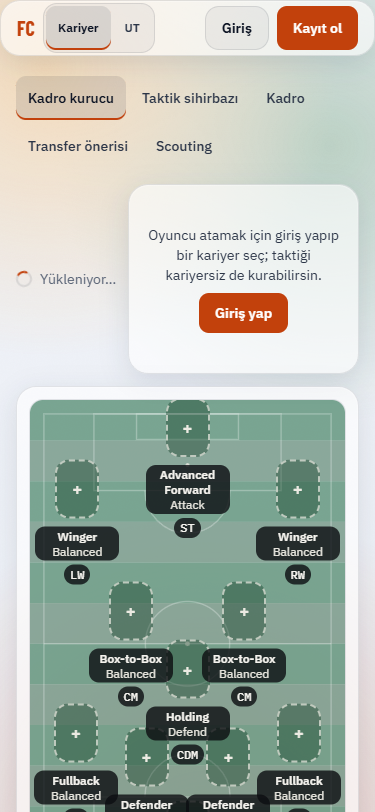
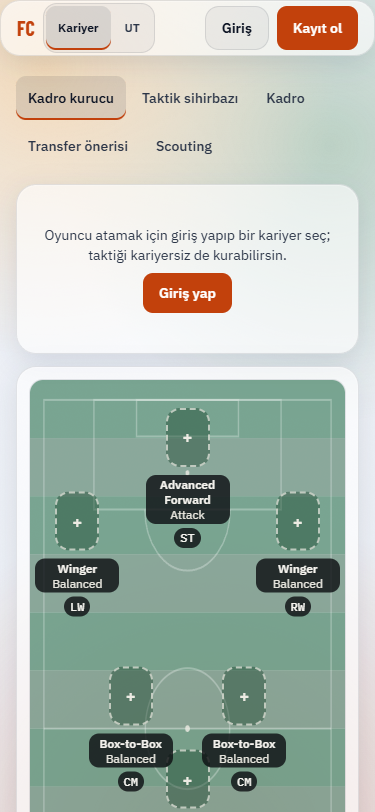
V3-04: kariyer kadro ekranı (?ui=v3) ve matris yeniden çekimi; saha mobilde taller, blok kenarda kesilmez
Matris (UT + kariyer; boş/dolu/slot seçili; 375/768/1280, koyu/açık, reduced-motion/transparency): axe serious/critical 0,
yatay taşma yok, konsol/ağ hatası yok. Rapor dosyaları artık moda göre adlı (gates-report-<mod>[-etiket].json).

BEHAVIOR CHANGE: saha 480px altında daha uzun (68/150) ve kart+etiket+rozet bloğu alt/üst kenarda kesilmez (Pitch, iki modda).
BEHAVIOR CHANGE: eski Button danger yazı rengi text-on-accent (kontrast; "Kariyeri sil" axe color-contrast ihlali).

Changed region(s): [[0.088, 0.5542, 0.9093, 1.0], [0.0293, 0.2155, 0.968, 0.7081], [0.0587, 0.3387, 0.088, 0.3695]]

diff --git a/src/components/pitch/Pitch.tsx b/src/components/pitch/Pitch.tsx
@@ -34,6 +34,8 @@ interface Drag {
 
 const DRAG_THRESHOLD = 6
 const CARD_RATIO = 0.13
+/** Kartın altındaki rol etiketi (2 satır) + mevki rozeti + boşluklar, px. */
+const BLOCK_EXTRA = 74
 const MIN_CARD = 44
 const MAX_CARD = 96
 
@@ -61,6 +63,7 @@ export function Pitch({ slots, onPickPlayer, onPickRole, onRemove, onSwap }: Pro
   const boxRef = useRef<HTMLDivElement>(null)
   const [cardWidth, setCardWidth] = useState(72)
   const [fieldWidth, setFieldWidth] = useState(560)
+  const [fieldHeight, setFieldHeight] = useState(865)
   const [drag, setDrag] = useState<Drag | null>(null)
   const [hover, setHover] = useState<string>()
   const [moving, setMoving] = useState<string>()
@@ -76,6 +79,7 @@ export function Pitch({ slots, onPickPlayer, onPickRole, onRemove, onSwap }: Pro
     }
     const observer = new ResizeObserver(([entry]) => {
       setFieldWidth(entry.contentRect.width)
+      setFieldHeight(entry.contentRect.height)
       setCardWidth(Math.round(Math.min(MAX_CARD, Math.max(MIN_CARD, entry.contentRect.width * CARD_RATIO))))
     })
     observer.observe(box)
@@ -121,6 +125,9 @@ export function Pitch({ slots, onPickPlayer, onPickRole, onRemove, onSwap }: Pro
   // Rol etiketi saha kenarında kesilmesin (11 Q11): etiket yarı genişliği kadar içeride tut.
   const labelWidth = Math.round(Math.min(112, Math.max(72, cardWidth * 1.9)))
   const edge = ((labelWidth / 2 + 4) / Math.max(fieldWidth, 1)) * 100
+  // Kart + 2 satır rol etiketi + mevki rozeti bloğu da alt/üst kenarda kesilmesin.
+  const blockHeight = Math.round(cardWidth * 1.35) + BLOCK_EXTRA
+  const edgeY = ((blockHeight / 2 + 4) / Math.max(fieldHeight, 1)) * 100
   const bySlot = useMemo(() => new Map(slots.map((s) => [s.slotId, s])), [slots])
   const hovered = hover ? bySlot.get(hover)?.player : undefined
   const dragged = drag ? bySlot.get(drag.slotId) : undefined
@@ -163,7 +170,7 @@ export function Pitch({ slots, onPickPlayer, onPickRole, onRemove, onSwap }: Pro
   }
 
   return (
-    <div ref={boxRef} className="pitch-field relative mx-auto aspect-[68/105] w-full max-w-[560px] overflow-hidden rounded-md border border-grass-900 bg-grass-700">
+    <div ref={boxRef} className="pitch-field relative mx-auto aspect-[68/105] max-[479px]:aspect-[68/150] w-full max-w-[560px] overflow-hidden rounded-md border border-grass-900 bg-grass-700">
       <svg className="absolute inset-0 h-full w-full" viewBox="0 0 680 1050" preserveAspectRatio="none" aria-hidden="true">
         {STRIPES.map((i) => (
           <rect key={i} x="0" y={i * 87.5} width="680" height="87.5" fill={i % 2 === 0 ? 'var(--pitch-a, var(--color-grass-700))' : 'var(--pitch-b, var(--color-grass-500))'} opacity={i % 2 === 0 ? 1 : 0.85} />
@@ -197,7 +204,7 @@ export function Pitch({ slots, onPickPlayer, onPickRole, onRemove, onSwap }: Pro
         const linked = Boolean(hovered) && hover !== slot.slotId && shares(hovered, slot.player)
         const isOver = Boolean(drag) && drag?.over === slot.slotId && drag?.slotId !== slot.slotId
         return (
-          <div key={slot.slotId} className="absolute -translate-x-1/2 -translate-y-1/2 text-center" style={{ left: `${Math.min(Math.max(slot.x, edge), 100 - edge)}%`, top: `${slot.y}%`, opacity: drag?.slotId === slot.slotId ? 0.35 : dimmed ? 0.45 : 1 }}>
+          <div key={slot.slotId} className="absolute -translate-x-1/2 -translate-y-1/2 text-center" style={{ left: `${Math.min(Math.max(slot.x, edge), 100 - edge)}%`, top: `${Math.min(Math.max(slot.y, edgeY), 100 - edgeY)}%`, opacity: drag?.slotId === slot.slotId ? 0.35 : dimmed ? 0.45 : 1 }}>
             <div className="group relative inline-block">
             <div
               role="button"

diff --git a/src/components/ui.tsx b/src/components/ui.tsx
@@ -38,7 +38,7 @@ export function Button({ variant = 'primary', className, ...props }: ButtonHTMLA
   const styles: Record<ButtonVariant, string> = {
     primary: 'bg-accent-bg text-on-accent hover:opacity-90 disabled:opacity-40',
     secondary: 'border border-line bg-surface text-ink hover:bg-surface-2 disabled:opacity-40',
-    danger: 'bg-danger text-surface hover:opacity-90 disabled:opacity-40',
+    danger: 'bg-danger text-on-accent hover:opacity-90 disabled:opacity-40',
     ghost: 'text-muted hover:bg-surface-2 hover:text-ink disabled:opacity-40',
   }
   return (
